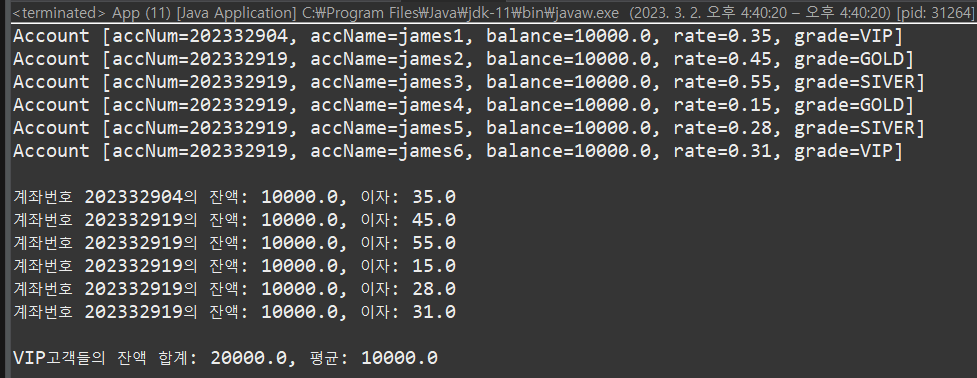
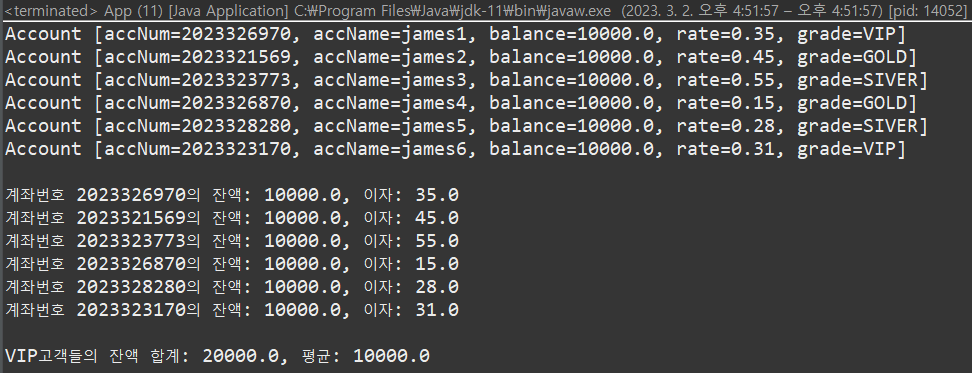
0302 ws commit

Changed region(s): [[0.0, 0.0, 1.0, 1.0]]

diff --git a/assignment/src/ws0302/MakeAccountNumber.java b/assignment/src/ws0302/MakeAccountNumber.java
@@ -1,13 +1,14 @@
 package ws0302;
 
 import java.util.Calendar;
+import java.util.Random;
 
 public class MakeAccountNumber {
 	public static String makeAccNum() {
 		String accNum = "";
 		Calendar cal = Calendar.getInstance();
 		accNum = "" + cal.get(Calendar.YEAR) + (cal.get(Calendar.MONTH) + 1) + cal.get(Calendar.DAY_OF_MONTH)
-				+ cal.get(Calendar.MILLISECOND);
+				+ (new Random().nextInt(9000) + 1000);
 		return accNum;
 	}
 }
